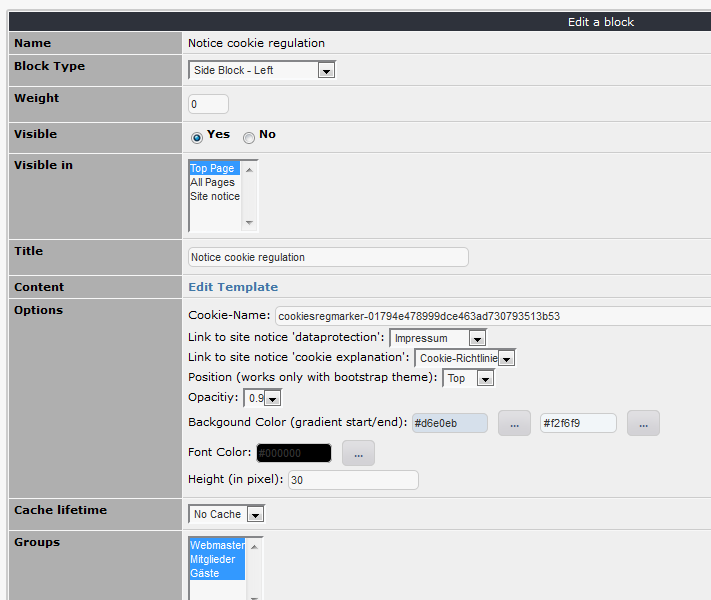
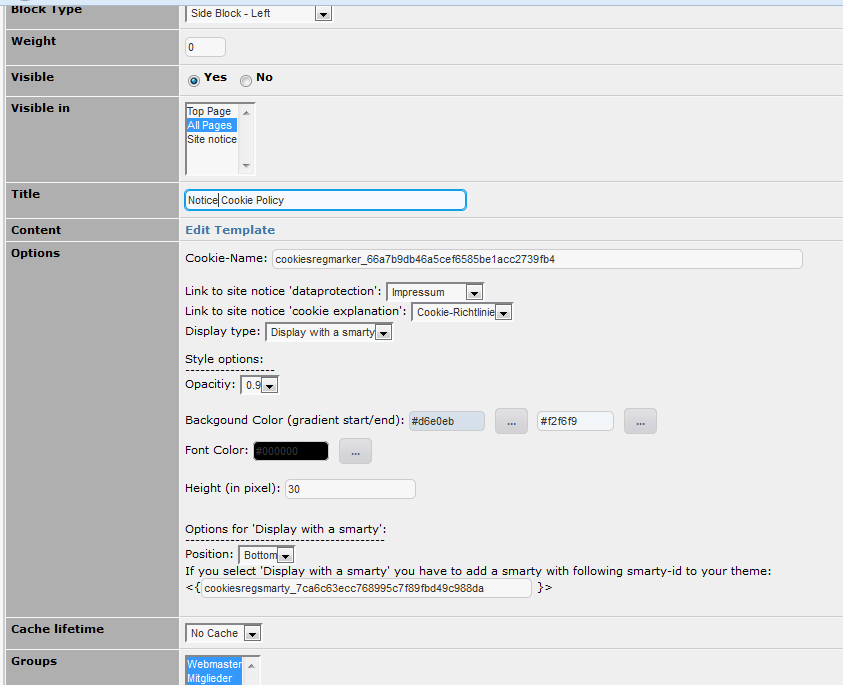
update block settings

Changed region(s): [[0.0, 0.0, 1.0, 1.0], [0.8664, 0.69, 0.9283, 0.75]]

diff --git a/de/book/6blocks.md b/de/book/6blocks.md
@@ -9,7 +9,7 @@ Beispiel:
 ![Blockbeispiel](../assets/6blocks.png)
 
 ## 6.2 Block Cookie-Richtlinie
-Wenn ein Bootstrag-Theme verwendet wird, wird der Hinweis auf die Cookie-Richtline je nach Einstellung statisch oben oder unten auf der Webseite angezeigt. 
+Der Hinweis auf die Cookie-Richtline wird je nach Einstellung statisch oben oder unten auf der Webseite oder als einzelner Block angezeigt. 
 
 Beispiel Ansicht Hinweis auf Webseite Statisch oben:
 
@@ -21,3 +21,8 @@ Es wird außerdem empfohlen, einen Link auf die Datenschutzbestimmungen sowie zu
 Beispiel Ansicht Blockeinstellungen:
 
 ![Ansicht Blockeinstellungen](../assets/6blocks3.png)
+
+Wenn Sie den Hinweis mittels Smarty oben/unten auf Ihrer Webseite anzeigen wollten, müssen Sie irgendwo in Ihrem Theme eine Smarty-Variable mit dem entsprechenden Wert aus Ihren Blockeinstellungen platzieren.
+Dies sollte dann wie im nachfolgenden Beispiel aussehen:
+
+![Beispiel Anzeige mit Smarty](../assets/6blocks4.png)

diff --git a/en/book/6blocks.md b/en/book/6blocks.md
@@ -9,7 +9,7 @@ Example:
 ![Block example](../assets/6blocks.png)
 
 ## 6.2 Block Cookie-Regulation
-If you use a bootstrap theme, the notice concerning cookie policy will be, depending on your settings, static on top or on bottom of your website displayed.
+The notice concerning cookie policy will be, depending on your settings, static on top or on bottom of your website as as single block displayed.
 
 Example Notice on website static top:
 
@@ -21,3 +21,8 @@ It is also recommended to set a link for data protection and explanation for coo
 Example block settings:
 
 ![Example block settings](../assets/6blocks3.png)
+
+If you want to show the notice on top/bottom, you should place a smarty variable with the corresponding value of the block settings somewhere in your theme.
+In this case it should look like this:
+
+![Example display with smarty](../assets/6blocks4.png)
